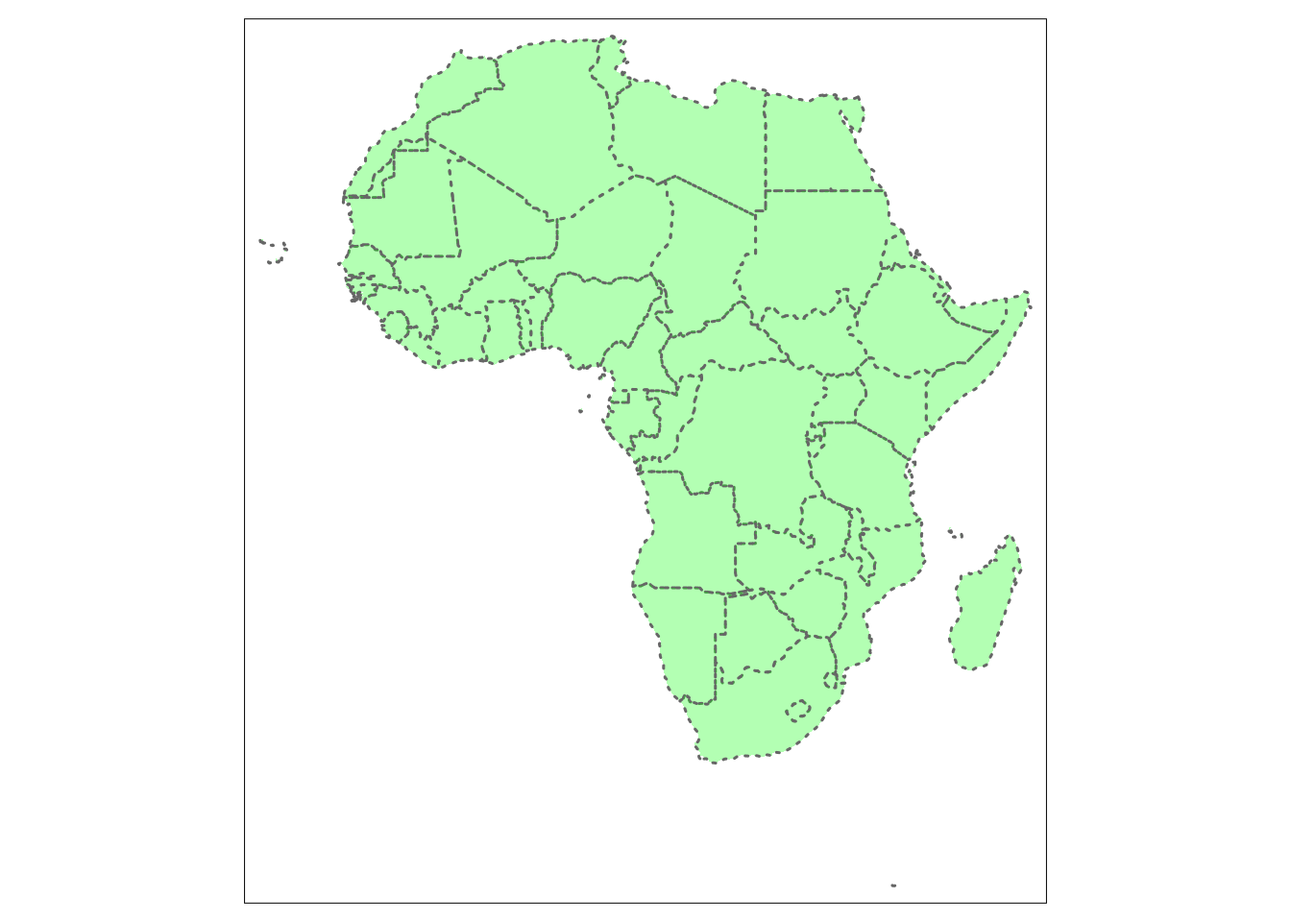
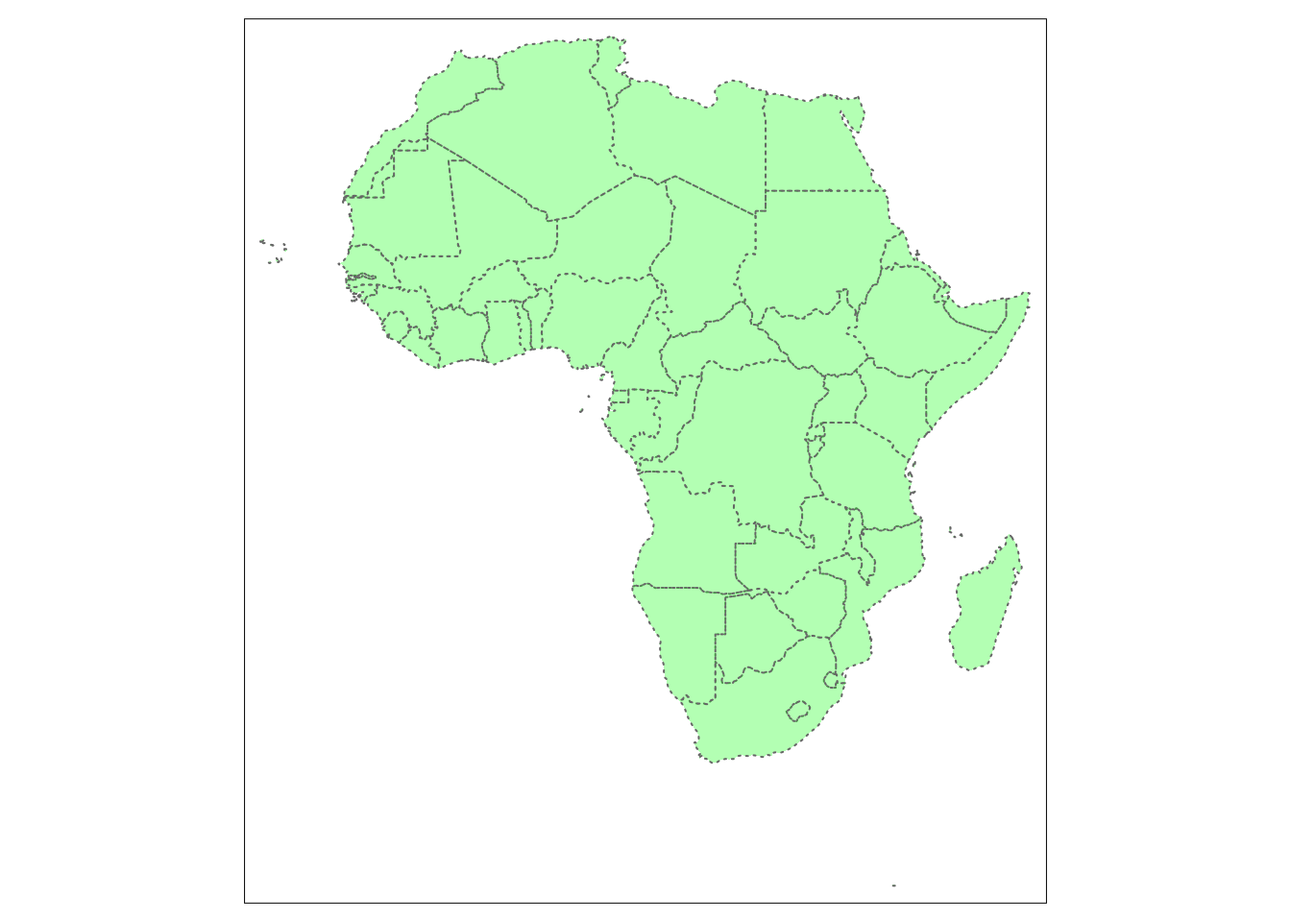
Deploy from Github Actions build 614041492 [ci skip]
Build URL: https://github.com/afrimapr/afrimapr-book/actions/runs/614041492
Commit: d62e7fd5b6ff02a408f7eb84f2863db8034fb316

diff --git a/visualising1.html b/visualising1.html
@@ -197,8 +197,8 @@ code span.wa { color: #60a0b0; font-weight: bold; font-style: italic; } /* Warni
 <li class="chapter" data-level="5.1" data-path="visualising1.html"><a href="visualising1.html#overall-goal-of-the-chapter-1"><i class="fa fa-check"></i><b>5.1</b> Overall goal of the chapter</a></li>
 <li class="chapter" data-level="5.2" data-path="visualising1.html"><a href="visualising1.html#quick-interactive-maps-with-mapview"><i class="fa fa-check"></i><b>5.2</b> Quick interactive maps with mapview</a></li>
 <li class="chapter" data-level="5.3" data-path="visualising1.html"><a href="visualising1.html#static-maps-with-tmap"><i class="fa fa-check"></i><b>5.3</b> Static maps with tmap</a><ul>
-<li class="chapter" data-level="5.3.1" data-path="visualising1.html"><a href="visualising1.html#layers-for-the-static-maps"><i class="fa fa-check"></i><b>5.3.1</b> Layers for the static maps</a></li>
-<li class="chapter" data-level="5.3.2" data-path="visualising1.html"><a href="visualising1.html#colour-pallet"><i class="fa fa-check"></i><b>5.3.2</b> Colour pallet</a></li>
+<li class="chapter" data-level="5.3.1" data-path="visualising1.html"><a href="visualising1.html#colour-pallet"><i class="fa fa-check"></i><b>5.3.1</b> Colour pallet</a></li>
+<li class="chapter" data-level="5.3.2" data-path="visualising1.html"><a href="visualising1.html#layers-for-the-static-maps"><i class="fa fa-check"></i><b>5.3.2</b> Layers for the static maps</a></li>
 </ul></li>
 <li class="chapter" data-level="5.4" data-path="visualising1.html"><a href="visualising1.html#interactive-maps-with-tmap"><i class="fa fa-check"></i><b>5.4</b> Interactive maps with tmap</a></li>
 <li class="chapter" data-level="5.5" data-path="visualising1.html"><a href="visualising1.html#further-resources-1"><i class="fa fa-check"></i><b>5.5</b> Further resources</a></li>
@@ -307,44 +307,68 @@ div.green { background-color:#e3ffd9; border-radius: 5px; padding: 20px;}
 <p>Create a dataset:</p>
 <div class="sourceCode" id="cb97"><pre class="sourceCode r"><code class="sourceCode r"><span id="cb97-1"><a href="visualising1.html#cb97-1"></a>africa &lt;-<span class="st"> </span><span class="kw">ne_countries</span>(<span class="dt">continent =</span> <span class="st">&#39;africa&#39;</span>, <span class="dt">scale =</span> <span class="st">&quot;medium&quot;</span>, <span class="dt">returnclass =</span> <span class="st">&quot;sf&quot;</span>)</span></code></pre></div>
 <p>Create an empty contour map of the continent, where <code>tm_shape()</code> function contains shape object (our spatial dataset) and <code>tm_borders()</code> defines the borders of the polygons.</p>
-<div class="sourceCode" id="cb98"><pre class="sourceCode r"><code class="sourceCode r"><span id="cb98-1"><a href="visualising1.html#cb98-1"></a><span class="kw">tm_shape</span>(africa)<span class="op">+</span></span>
-<span id="cb98-2"><a href="visualising1.html#cb98-2"></a><span class="st"> </span><span class="kw">tm_borders</span>()</span></code></pre></div>
-<p><img src="bookdown-demo_files/figure-html/unnamed-chunk-68-1.png" width="672" />
-Create an empty shape map of the continent, where <code>tm_shape()</code> function contains shape object (our spatial dataset) and <code>tm_fill()</code> defines the fill of the polygons.</p>
-<div class="sourceCode" id="cb99"><pre class="sourceCode r"><code class="sourceCode r"><span id="cb99-1"><a href="visualising1.html#cb99-1"></a><span class="kw">tm_shape</span>(africa)<span class="op">+</span></span>
-<span id="cb99-2"><a href="visualising1.html#cb99-2"></a><span class="st"> </span><span class="kw">tm_fill</span>()</span></code></pre></div>
-<p><img src="bookdown-demo_files/figure-html/unnamed-chunk-69-1.png" width="672" />
-We can also create a map with both ofthese features in one go using <code>tm_polygons()</code> function:</p>
-<div class="sourceCode" id="cb100"><pre class="sourceCode r"><code class="sourceCode r"><span id="cb100-1"><a href="visualising1.html#cb100-1"></a><span class="kw">tm_shape</span>(africa)<span class="op">+</span></span>
-<span id="cb100-2"><a href="visualising1.html#cb100-2"></a><span class="st"> </span><span class="kw">tm_polygons</span>()</span></code></pre></div>
-<p><img src="bookdown-demo_files/figure-html/unnamed-chunk-70-1.png" width="672" /></p>
-<p>We can further develop our map by adjusting different features of the map such as colour, width, types and transparency of the border lines etc. The extra parameters for changing the plot elements can be found <a href="http://publish.illinois.edu/johnrgallagher/files/2015/10/BaseGraphicsCheatsheet.pdf">here</a>.</p>
-<div class="sourceCode" id="cb101"><pre class="sourceCode r"><code class="sourceCode r"><span id="cb101-1"><a href="visualising1.html#cb101-1"></a><span class="kw">tmap_mode</span>(<span class="st">&quot;plot&quot;</span>)</span></code></pre></div>
+<div class="sourceCode" id="cb98"><pre class="sourceCode r"><code class="sourceCode r"><span id="cb98-1"><a href="visualising1.html#cb98-1"></a><span class="kw">tmap_mode</span>(<span class="st">&quot;plot&quot;</span>)</span></code></pre></div>
 <pre><code>## tmap mode set to plotting</code></pre>
+<div class="sourceCode" id="cb100"><pre class="sourceCode r"><code class="sourceCode r"><span id="cb100-1"><a href="visualising1.html#cb100-1"></a><span class="kw">tm_shape</span>(africa)<span class="op">+</span></span>
+<span id="cb100-2"><a href="visualising1.html#cb100-2"></a><span class="st"> </span><span class="kw">tm_borders</span>()</span></code></pre></div>
+<p><img src="bookdown-demo_files/figure-html/unnamed-chunk-68-1.png" width="672" /></p>
+<p>You can also create an empty shape map using <code>tm_fill()</code> which defines the fill of the polygons.</p>
+<div class="sourceCode" id="cb101"><pre class="sourceCode r"><code class="sourceCode r"><span id="cb101-1"><a href="visualising1.html#cb101-1"></a><span class="kw">tm_shape</span>(africa)<span class="op">+</span></span>
+<span id="cb101-2"><a href="visualising1.html#cb101-2"></a><span class="st"> </span><span class="kw">tm_fill</span>()</span></code></pre></div>
+<p><img src="bookdown-demo_files/figure-html/unnamed-chunk-69-1.png" width="672" /></p>
+<p>You can also create a map with both these features in one go using <code>tm_polygons()</code> function:</p>
+<div class="sourceCode" id="cb102"><pre class="sourceCode r"><code class="sourceCode r"><span id="cb102-1"><a href="visualising1.html#cb102-1"></a><span class="kw">tm_shape</span>(africa)<span class="op">+</span></span>
+<span id="cb102-2"><a href="visualising1.html#cb102-2"></a><span class="st"> </span><span class="kw">tm_polygons</span>()</span></code></pre></div>
+<p><img src="bookdown-demo_files/figure-html/unnamed-chunk-70-1.png" width="672" /></p>
+<p>We can further develop our map by adjusting different features of the map such as colour and transparency of the map, width and types of the border lines etc. The extra parameters for changing the plot elements can be found <a href="http://publish.illinois.edu/johnrgallagher/files/2015/10/BaseGraphicsCheatsheet.pdf">here</a>.</p>
 <div class="sourceCode" id="cb103"><pre class="sourceCode r"><code class="sourceCode r"><span id="cb103-1"><a href="visualising1.html#cb103-1"></a><span class="kw">tm_shape</span>(africa)<span class="op">+</span></span>
-<span id="cb103-2"><a href="visualising1.html#cb103-2"></a><span class="st"> </span><span class="kw">tm_polygons</span>(<span class="dt">col =</span> <span class="st">&quot;green&quot;</span>, <span class="dt">lwd =</span> <span class="fl">1.5</span>, <span class="dt">lty =</span> <span class="st">&quot;dotted&quot;</span>, <span class="dt">alpha =</span> <span class="fl">0.3</span>)</span></code></pre></div>
-<p><img src="bookdown-demo_files/figure-html/unnamed-chunk-71-1.png" width="672" />
-- Exercise 1: Change the settings to the map to obtain yellow, non-transparent map with solid line borders as showed below. (The solution to the exercises are provided at the end of the chapter <a href="visualising1.html#solutions_ch5">click here</a>)</p>
+<span id="cb103-2"><a href="visualising1.html#cb103-2"></a><span class="st"> </span><span class="kw">tm_polygons</span>(<span class="dt">col =</span> <span class="st">&quot;green&quot;</span>, <span class="dt">lty =</span> <span class="st">&quot;dotted&quot;</span>, <span class="dt">alpha =</span> <span class="fl">0.3</span>)</span></code></pre></div>
+<p><img src="bookdown-demo_files/figure-html/unnamed-chunk-71-1.png" width="672" /></p>
+<ul>
+<li><strong>Exercise 1</strong>: Change the settings to the map to obtain yellow, non-transparent map with solid line borders of width 3, as showed below. (The solution to the exercises are provided at the end of the chapter <a href="visualising1.html#solutions_ch5">click here</a>)</li>
+</ul>
 <p><img src="bookdown-demo_files/figure-html/unnamed-chunk-72-1.png" width="672" /></p>
-<div id="layers-for-the-static-maps" class="section level3">
-<h3><span class="header-section-number">5.3.1</span> Layers for the static maps</h3>
-<p>Fill map using data on last census data and add labels for country names</p>
+<ul>
+<li><strong>Exercise 2</strong>: create a blue map with transparency of 0.3, dotted, non-transparent, red borders, such as one below:<br />
+<img src="bookdown-demo_files/figure-html/unnamed-chunk-73-1.png" width="672" /></li>
+</ul>
+<p>As we already know a basic structure required to build a static map we can proceed to a more advanced (and useful) example where we fill the polygons using data on last census, add relevant title to the legend. In this case, we also use <code>legend.format</code>option to format the legend numbers to be treated as years.</p>
 <div class="sourceCode" id="cb104"><pre class="sourceCode r"><code class="sourceCode r"><span id="cb104-1"><a href="visualising1.html#cb104-1"></a><span class="kw">tm_shape</span>(africa)<span class="op">+</span></span>
 <span id="cb104-2"><a href="visualising1.html#cb104-2"></a><span class="st"> </span><span class="kw">tm_fill</span>(<span class="dt">col=</span><span class="st">&quot;lastcensus&quot;</span>, <span class="dt">title=</span><span class="st">&quot;Year of last census&quot;</span>, <span class="dt">legend.format =</span> <span class="kw">list</span>(<span class="dt">format=</span><span class="st">&quot;s&quot;</span>))<span class="op">+</span></span>
-<span id="cb104-3"><a href="visualising1.html#cb104-3"></a><span class="st"> </span><span class="kw">tm_borders</span>()<span class="op">+</span></span>
-<span id="cb104-4"><a href="visualising1.html#cb104-4"></a><span class="st"> </span><span class="kw">tm_text</span>(<span class="st">&quot;admin&quot;</span>, <span class="dt">size =</span> <span class="fl">0.52</span>,  <span class="dt">fontface=</span><span class="st">&quot;bold&quot;</span>, <span class="dt">auto.placement =</span> <span class="ot">TRUE</span>)</span></code></pre></div>
-<p><img src="bookdown-demo_files/figure-html/unnamed-chunk-73-1.png" width="672" /></p>
-</div>
+<span id="cb104-3"><a href="visualising1.html#cb104-3"></a><span class="st"> </span><span class="kw">tm_borders</span>()</span></code></pre></div>
+<p><img src="bookdown-demo_files/figure-html/unnamed-chunk-74-1.png" width="672" /></p>
+<p>We build on the previous map by adding labels for country names with <code>tm_text</code> function.</p>
+<div class="sourceCode" id="cb105"><pre class="sourceCode r"><code class="sourceCode r"><span id="cb105-1"><a href="visualising1.html#cb105-1"></a><span class="kw">tm_shape</span>(africa)<span class="op">+</span></span>
+<span id="cb105-2"><a href="visualising1.html#cb105-2"></a><span class="st"> </span><span class="kw">tm_fill</span>(<span class="dt">col=</span><span class="st">&quot;lastcensus&quot;</span>, <span class="dt">title=</span><span class="st">&quot;Year of last census&quot;</span>, <span class="dt">legend.format =</span> <span class="kw">list</span>(<span class="dt">format=</span><span class="st">&quot;s&quot;</span>))<span class="op">+</span></span>
+<span id="cb105-3"><a href="visualising1.html#cb105-3"></a><span class="st"> </span><span class="kw">tm_borders</span>()<span class="op">+</span></span>
+<span id="cb105-4"><a href="visualising1.html#cb105-4"></a><span class="st"> </span><span class="kw">tm_text</span>(<span class="st">&quot;admin&quot;</span>, <span class="dt">size =</span> <span class="fl">0.52</span>,  <span class="dt">fontface=</span><span class="st">&quot;bold&quot;</span>, <span class="dt">auto.placement =</span> <span class="ot">TRUE</span>)</span></code></pre></div>
+<p><img src="bookdown-demo_files/figure-html/unnamed-chunk-75-1.png" width="672" /></p>
+<p>Another useful function in <code>tmap</code> is adjusting the intervals of the legend, in case the default scale does not provide enough variety. For example, when we try to see the populations of African countries on the map using default intervals stemming from the data we see:</p>
+<div class="sourceCode" id="cb106"><pre class="sourceCode r"><code class="sourceCode r"><span id="cb106-1"><a href="visualising1.html#cb106-1"></a><span class="kw">tm_shape</span>(africa)<span class="op">+</span></span>
+<span id="cb106-2"><a href="visualising1.html#cb106-2"></a><span class="st"> </span><span class="kw">tm_fill</span>(<span class="dt">col=</span><span class="st">&quot;pop_est&quot;</span>, <span class="dt">title=</span><span class="st">&quot;Population&quot;</span>)<span class="op">+</span></span>
+<span id="cb106-3"><a href="visualising1.html#cb106-3"></a><span class="st"> </span><span class="kw">tm_borders</span>()</span></code></pre></div>
+<p><img src="bookdown-demo_files/figure-html/unnamed-chunk-76-1.png" width="672" /></p>
+<p>Instead, we might want to use <code>breaks</code> function to set them up manually to provide more differentiation. It is important to keep breaks values between minimum and maximum value in the data.</p>
+<div class="sourceCode" id="cb107"><pre class="sourceCode r"><code class="sourceCode r"><span id="cb107-1"><a href="visualising1.html#cb107-1"></a><span class="kw">tm_shape</span>(africa)<span class="op">+</span></span>
+<span id="cb107-2"><a href="visualising1.html#cb107-2"></a><span class="st"> </span><span class="kw">tm_fill</span>(<span class="dt">col=</span><span class="st">&quot;pop_est&quot;</span>, <span class="dt">title=</span><span class="st">&quot;Population&quot;</span>, <span class="dt">breaks =</span> <span class="kw">c</span>(<span class="dv">1000000</span>, <span class="dv">4000000</span>, <span class="dv">8000000</span>, <span class="dv">12000000</span>, <span class="dv">16000000</span>, <span class="dv">20000000</span>, <span class="dv">24000000</span>, <span class="dv">28000000</span>,<span class="dv">32000000</span>))<span class="op">+</span></span>
+<span id="cb107-3"><a href="visualising1.html#cb107-3"></a><span class="st"> </span><span class="kw">tm_borders</span>()</span></code></pre></div>
+<p><img src="bookdown-demo_files/figure-html/unnamed-chunk-77-1.png" width="672" />
+- <strong>Exercise 3</strong>: create a map with polygons filled with gross domestic product, black borders, legend titled <em>GDP</em> and customised breaks at 0, 20000, 30000, 40000, 50000, 100000, 200000, 300000, 500000, such as seen below.
+<img src="bookdown-demo_files/figure-html/unnamed-chunk-78-1.png" width="672" /></p>
 <div id="colour-pallet" class="section level3">
-<h3><span class="header-section-number">5.3.2</span> Colour pallet</h3>
+<h3><span class="header-section-number">5.3.1</span> Colour pallet</h3>
+</div>
+<div id="layers-for-the-static-maps" class="section level3">
+<h3><span class="header-section-number">5.3.2</span> Layers for the static maps</h3>
+<p>put two maps together</p>
 </div>
 </div>
 <div id="interactive-maps-with-tmap" class="section level2">
 <h2><span class="header-section-number">5.4</span> Interactive maps with tmap</h2>
 <p><code>tmap</code> offers versatility not only for creating static maps as we have seen above but it also allows us to make customised interactive maps conveniently by simply changing the mode of operation from static <em>plot</em> to dynamic <em>view</em> using <code>tmap_mode()</code></p>
-<div class="sourceCode" id="cb105"><pre class="sourceCode r"><code class="sourceCode r"><span id="cb105-1"><a href="visualising1.html#cb105-1"></a><span class="co"># tmap_mode(&quot;view&quot;) #switches to interactive mode</span></span>
-<span id="cb105-2"><a href="visualising1.html#cb105-2"></a><span class="co"># tm_shape(africa)+  #creates a map from previous chapter in an interactive mode</span></span>
-<span id="cb105-3"><a href="visualising1.html#cb105-3"></a><span class="co">#   tm_borders()</span></span></code></pre></div>
+<div class="sourceCode" id="cb108"><pre class="sourceCode r"><code class="sourceCode r"><span id="cb108-1"><a href="visualising1.html#cb108-1"></a><span class="co"># tmap_mode(&quot;view&quot;) #switches to interactive mode</span></span>
+<span id="cb108-2"><a href="visualising1.html#cb108-2"></a><span class="co"># tm_shape(africa)+  #creates a map from previous chapter in an interactive mode</span></span>
+<span id="cb108-3"><a href="visualising1.html#cb108-3"></a><span class="co">#   tm_borders()</span></span></code></pre></div>
 </div>
 <div id="further-resources-1" class="section level2">
 <h2><span class="header-section-number">5.5</span> Further resources</h2>
@@ -354,8 +378,20 @@ We can also create a map with both ofthese features in one go using <code>tm_pol
 <ul>
 <li>Exercise 1</li>
 </ul>
-<div class="sourceCode" id="cb106"><pre class="sourceCode r"><code class="sourceCode r"><span id="cb106-1"><a href="visualising1.html#cb106-1"></a><span class="kw">tm_shape</span>(africa)<span class="op">+</span></span>
-<span id="cb106-2"><a href="visualising1.html#cb106-2"></a><span class="st"> </span><span class="kw">tm_polygons</span>(<span class="dt">col =</span> <span class="st">&quot;yellow&quot;</span>, <span class="dt">lwd =</span> <span class="fl">1.5</span>, <span class="dt">lty =</span> <span class="st">&quot;solid&quot;</span>, <span class="dt">alpha =</span> <span class="dv">1</span>)</span></code></pre></div>
+<div class="sourceCode" id="cb109"><pre class="sourceCode r"><code class="sourceCode r"><span id="cb109-1"><a href="visualising1.html#cb109-1"></a><span class="kw">tm_shape</span>(africa)<span class="op">+</span></span>
+<span id="cb109-2"><a href="visualising1.html#cb109-2"></a><span class="st"> </span><span class="kw">tm_polygons</span>(<span class="dt">col =</span> <span class="st">&quot;yellow&quot;</span>, <span class="dt">lwd =</span> <span class="dv">3</span>, <span class="dt">lty =</span> <span class="st">&quot;solid&quot;</span>, <span class="dt">alpha =</span> <span class="dv">1</span>)</span></code></pre></div>
+<ul>
+<li>Exercise 2</li>
+</ul>
+<div class="sourceCode" id="cb110"><pre class="sourceCode r"><code class="sourceCode r"><span id="cb110-1"><a href="visualising1.html#cb110-1"></a><span class="kw">tm_shape</span>(africa)<span class="op">+</span></span>
+<span id="cb110-2"><a href="visualising1.html#cb110-2"></a><span class="st"> </span><span class="kw">tm_fill</span>(<span class="dt">col=</span><span class="st">&quot;blue&quot;</span>,<span class="dt">alpha =</span> <span class="fl">0.3</span>)<span class="op">+</span></span>
+<span id="cb110-3"><a href="visualising1.html#cb110-3"></a><span class="st"> </span><span class="kw">tm_borders</span>(<span class="dt">col =</span> <span class="st">&quot;red&quot;</span>, <span class="dt">lty =</span> <span class="st">&quot;dotted&quot;</span>, <span class="dt">alpha =</span> <span class="dv">1</span>)</span></code></pre></div>
+<ul>
+<li>Exercise 3</li>
+</ul>
+<div class="sourceCode" id="cb111"><pre class="sourceCode r"><code class="sourceCode r"><span id="cb111-1"><a href="visualising1.html#cb111-1"></a><span class="kw">tm_shape</span>(africa)<span class="op">+</span></span>
+<span id="cb111-2"><a href="visualising1.html#cb111-2"></a><span class="st"> </span><span class="kw">tm_fill</span>(<span class="dt">col=</span><span class="st">&quot;gdp_md_est&quot;</span>, <span class="dt">title=</span><span class="st">&quot;GDP&quot;</span>,  <span class="dt">breaks =</span> <span class="kw">c</span>(<span class="dv">0</span>, <span class="dv">20000</span>, <span class="dv">30000</span>, <span class="dv">40000</span>, <span class="dv">50000</span>, <span class="dv">100000</span>,<span class="dv">200000</span>, <span class="dv">300000</span>, <span class="dv">500000</span>))<span class="op">+</span></span>
+<span id="cb111-3"><a href="visualising1.html#cb111-3"></a><span class="st"> </span><span class="kw">tm_borders</span>()</span></code></pre></div>
 
 </div>
 </div>

diff --git a/template.html b/template.html
@@ -197,8 +197,8 @@ code span.wa { color: #60a0b0; font-weight: bold; font-style: italic; } /* Warni
 <li class="chapter" data-level="5.1" data-path="visualising1.html"><a href="visualising1.html#overall-goal-of-the-chapter-1"><i class="fa fa-check"></i><b>5.1</b> Overall goal of the chapter</a></li>
 <li class="chapter" data-level="5.2" data-path="visualising1.html"><a href="visualising1.html#quick-interactive-maps-with-mapview"><i class="fa fa-check"></i><b>5.2</b> Quick interactive maps with mapview</a></li>
 <li class="chapter" data-level="5.3" data-path="visualising1.html"><a href="visualising1.html#static-maps-with-tmap"><i class="fa fa-check"></i><b>5.3</b> Static maps with tmap</a><ul>
-<li class="chapter" data-level="5.3.1" data-path="visualising1.html"><a href="visualising1.html#layers-for-the-static-maps"><i class="fa fa-check"></i><b>5.3.1</b> Layers for the static maps</a></li>
-<li class="chapter" data-level="5.3.2" data-path="visualising1.html"><a href="visualising1.html#colour-pallet"><i class="fa fa-check"></i><b>5.3.2</b> Colour pallet</a></li>
+<li class="chapter" data-level="5.3.1" data-path="visualising1.html"><a href="visualising1.html#colour-pallet"><i class="fa fa-check"></i><b>5.3.1</b> Colour pallet</a></li>
+<li class="chapter" data-level="5.3.2" data-path="visualising1.html"><a href="visualising1.html#layers-for-the-static-maps"><i class="fa fa-check"></i><b>5.3.2</b> Layers for the static maps</a></li>
 </ul></li>
 <li class="chapter" data-level="5.4" data-path="visualising1.html"><a href="visualising1.html#interactive-maps-with-tmap"><i class="fa fa-check"></i><b>5.4</b> Interactive maps with tmap</a></li>
 <li class="chapter" data-level="5.5" data-path="visualising1.html"><a href="visualising1.html#further-resources-1"><i class="fa fa-check"></i><b>5.5</b> Further resources</a></li>
@@ -327,11 +327,11 @@ div.blue { background-color:#e6f0ff; border-radius: 5px; padding: 20px;}
 <ul>
 <li>Exercise 1</li>
 </ul>
-<div class="sourceCode" id="cb107"><pre class="sourceCode r"><code class="sourceCode r"><span id="cb107-1"><a href="template.html#cb107-1"></a><span class="co">#code to exercise 1 only, results hidden </span></span></code></pre></div>
+<div class="sourceCode" id="cb112"><pre class="sourceCode r"><code class="sourceCode r"><span id="cb112-1"><a href="template.html#cb112-1"></a><span class="co">#code to exercise 1 only, results hidden </span></span></code></pre></div>
 <ul>
 <li>Exercise 2</li>
 </ul>
-<div class="sourceCode" id="cb108"><pre class="sourceCode r"><code class="sourceCode r"><span id="cb108-1"><a href="template.html#cb108-1"></a><span class="co">#code to exercise 2 only, results hidden</span></span></code></pre></div>
+<div class="sourceCode" id="cb113"><pre class="sourceCode r"><code class="sourceCode r"><span id="cb113-1"><a href="template.html#cb113-1"></a><span class="co">#code to exercise 2 only, results hidden</span></span></code></pre></div>
 </div>
 <div id="feedback-2" class="section level2">
 <h2><span class="header-section-number">15.9</span> Feedback</h2>

diff --git a/preface.html b/preface.html
@@ -197,8 +197,8 @@ code span.wa { color: #60a0b0; font-weight: bold; font-style: italic; } /* Warni
 <li class="chapter" data-level="5.1" data-path="visualising1.html"><a href="visualising1.html#overall-goal-of-the-chapter-1"><i class="fa fa-check"></i><b>5.1</b> Overall goal of the chapter</a></li>
 <li class="chapter" data-level="5.2" data-path="visualising1.html"><a href="visualising1.html#quick-interactive-maps-with-mapview"><i class="fa fa-check"></i><b>5.2</b> Quick interactive maps with mapview</a></li>
 <li class="chapter" data-level="5.3" data-path="visualising1.html"><a href="visualising1.html#static-maps-with-tmap"><i class="fa fa-check"></i><b>5.3</b> Static maps with tmap</a><ul>
-<li class="chapter" data-level="5.3.1" data-path="visualising1.html"><a href="visualising1.html#layers-for-the-static-maps"><i class="fa fa-check"></i><b>5.3.1</b> Layers for the static maps</a></li>
-<li class="chapter" data-level="5.3.2" data-path="visualising1.html"><a href="visualising1.html#colour-pallet"><i class="fa fa-check"></i><b>5.3.2</b> Colour pallet</a></li>
+<li class="chapter" data-level="5.3.1" data-path="visualising1.html"><a href="visualising1.html#colour-pallet"><i class="fa fa-check"></i><b>5.3.1</b> Colour pallet</a></li>
+<li class="chapter" data-level="5.3.2" data-path="visualising1.html"><a href="visualising1.html#layers-for-the-static-maps"><i class="fa fa-check"></i><b>5.3.2</b> Layers for the static maps</a></li>
 </ul></li>
 <li class="chapter" data-level="5.4" data-path="visualising1.html"><a href="visualising1.html#interactive-maps-with-tmap"><i class="fa fa-check"></i><b>5.4</b> Interactive maps with tmap</a></li>
 <li class="chapter" data-level="5.5" data-path="visualising1.html"><a href="visualising1.html#further-resources-1"><i class="fa fa-check"></i><b>5.5</b> Further resources</a></li>
@@ -277,7 +277,7 @@ code span.wa { color: #60a0b0; font-weight: bold; font-style: italic; } /* Warni
 </ol>
 <p>The version of the book you are currently reading was last updated at:</p>
 <div class="sourceCode" id="cb1"><pre class="sourceCode r"><code class="sourceCode r"><span id="cb1-1"><a href="preface.html#cb1-1"></a><span class="kw">Sys.time</span>()</span></code></pre></div>
-<pre><code>## [1] &quot;2021-03-02 11:21:54 UTC&quot;</code></pre>
+<pre><code>## [1] &quot;2021-03-02 12:42:10 UTC&quot;</code></pre>
 <div class="figure">
 <img src="https://github.com/afrimapr/book/workflows/tic/badge.svg" alt="" />
 <p class="caption">Continuous integration (built on GitHub)</p>

diff --git a/case-study1.html b/case-study1.html
@@ -197,8 +197,8 @@ code span.wa { color: #60a0b0; font-weight: bold; font-style: italic; } /* Warni
 <li class="chapter" data-level="5.1" data-path="visualising1.html"><a href="visualising1.html#overall-goal-of-the-chapter-1"><i class="fa fa-check"></i><b>5.1</b> Overall goal of the chapter</a></li>
 <li class="chapter" data-level="5.2" data-path="visualising1.html"><a href="visualising1.html#quick-interactive-maps-with-mapview"><i class="fa fa-check"></i><b>5.2</b> Quick interactive maps with mapview</a></li>
 <li class="chapter" data-level="5.3" data-path="visualising1.html"><a href="visualising1.html#static-maps-with-tmap"><i class="fa fa-check"></i><b>5.3</b> Static maps with tmap</a><ul>
-<li class="chapter" data-level="5.3.1" data-path="visualising1.html"><a href="visualising1.html#layers-for-the-static-maps"><i class="fa fa-check"></i><b>5.3.1</b> Layers for the static maps</a></li>
-<li class="chapter" data-level="5.3.2" data-path="visualising1.html"><a href="visualising1.html#colour-pallet"><i class="fa fa-check"></i><b>5.3.2</b> Colour pallet</a></li>
+<li class="chapter" data-level="5.3.1" data-path="visualising1.html"><a href="visualising1.html#colour-pallet"><i class="fa fa-check"></i><b>5.3.1</b> Colour pallet</a></li>
+<li class="chapter" data-level="5.3.2" data-path="visualising1.html"><a href="visualising1.html#layers-for-the-static-maps"><i class="fa fa-check"></i><b>5.3.2</b> Layers for the static maps</a></li>
 </ul></li>
 <li class="chapter" data-level="5.4" data-path="visualising1.html"><a href="visualising1.html#interactive-maps-with-tmap"><i class="fa fa-check"></i><b>5.4</b> Interactive maps with tmap</a></li>
 <li class="chapter" data-level="5.5" data-path="visualising1.html"><a href="visualising1.html#further-resources-1"><i class="fa fa-check"></i><b>5.5</b> Further resources</a></li>

diff --git a/case-study2.html b/case-study2.html
@@ -197,8 +197,8 @@ code span.wa { color: #60a0b0; font-weight: bold; font-style: italic; } /* Warni
 <li class="chapter" data-level="5.1" data-path="visualising1.html"><a href="visualising1.html#overall-goal-of-the-chapter-1"><i class="fa fa-check"></i><b>5.1</b> Overall goal of the chapter</a></li>
 <li class="chapter" data-level="5.2" data-path="visualising1.html"><a href="visualising1.html#quick-interactive-maps-with-mapview"><i class="fa fa-check"></i><b>5.2</b> Quick interactive maps with mapview</a></li>
 <li class="chapter" data-level="5.3" data-path="visualising1.html"><a href="visualising1.html#static-maps-with-tmap"><i class="fa fa-check"></i><b>5.3</b> Static maps with tmap</a><ul>
-<li class="chapter" data-level="5.3.1" data-path="visualising1.html"><a href="visualising1.html#layers-for-the-static-maps"><i class="fa fa-check"></i><b>5.3.1</b> Layers for the static maps</a></li>
-<li class="chapter" data-level="5.3.2" data-path="visualising1.html"><a href="visualising1.html#colour-pallet"><i class="fa fa-check"></i><b>5.3.2</b> Colour pallet</a></li>
+<li class="chapter" data-level="5.3.1" data-path="visualising1.html"><a href="visualising1.html#colour-pallet"><i class="fa fa-check"></i><b>5.3.1</b> Colour pallet</a></li>
+<li class="chapter" data-level="5.3.2" data-path="visualising1.html"><a href="visualising1.html#layers-for-the-static-maps"><i class="fa fa-check"></i><b>5.3.2</b> Layers for the static maps</a></li>
 </ul></li>
 <li class="chapter" data-level="5.4" data-path="visualising1.html"><a href="visualising1.html#interactive-maps-with-tmap"><i class="fa fa-check"></i><b>5.4</b> Interactive maps with tmap</a></li>
 <li class="chapter" data-level="5.5" data-path="visualising1.html"><a href="visualising1.html#further-resources-1"><i class="fa fa-check"></i><b>5.5</b> Further resources</a></li>

diff --git a/data-editing.html b/data-editing.html
@@ -197,8 +197,8 @@ code span.wa { color: #60a0b0; font-weight: bold; font-style: italic; } /* Warni
 <li class="chapter" data-level="5.1" data-path="visualising1.html"><a href="visualising1.html#overall-goal-of-the-chapter-1"><i class="fa fa-check"></i><b>5.1</b> Overall goal of the chapter</a></li>
 <li class="chapter" data-level="5.2" data-path="visualising1.html"><a href="visualising1.html#quick-interactive-maps-with-mapview"><i class="fa fa-check"></i><b>5.2</b> Quick interactive maps with mapview</a></li>
 <li class="chapter" data-level="5.3" data-path="visualising1.html"><a href="visualising1.html#static-maps-with-tmap"><i class="fa fa-check"></i><b>5.3</b> Static maps with tmap</a><ul>
-<li class="chapter" data-level="5.3.1" data-path="visualising1.html"><a href="visualising1.html#layers-for-the-static-maps"><i class="fa fa-check"></i><b>5.3.1</b> Layers for the static maps</a></li>
-<li class="chapter" data-level="5.3.2" data-path="visualising1.html"><a href="visualising1.html#colour-pallet"><i class="fa fa-check"></i><b>5.3.2</b> Colour pallet</a></li>
+<li class="chapter" data-level="5.3.1" data-path="visualising1.html"><a href="visualising1.html#colour-pallet"><i class="fa fa-check"></i><b>5.3.1</b> Colour pallet</a></li>
+<li class="chapter" data-level="5.3.2" data-path="visualising1.html"><a href="visualising1.html#layers-for-the-static-maps"><i class="fa fa-check"></i><b>5.3.2</b> Layers for the static maps</a></li>
 </ul></li>
 <li class="chapter" data-level="5.4" data-path="visualising1.html"><a href="visualising1.html#interactive-maps-with-tmap"><i class="fa fa-check"></i><b>5.4</b> Interactive maps with tmap</a></li>
 <li class="chapter" data-level="5.5" data-path="visualising1.html"><a href="visualising1.html#further-resources-1"><i class="fa fa-check"></i><b>5.5</b> Further resources</a></li>

diff --git a/data-sources.html b/data-sources.html
@@ -197,8 +197,8 @@ code span.wa { color: #60a0b0; font-weight: bold; font-style: italic; } /* Warni
 <li class="chapter" data-level="5.1" data-path="visualising1.html"><a href="visualising1.html#overall-goal-of-the-chapter-1"><i class="fa fa-check"></i><b>5.1</b> Overall goal of the chapter</a></li>
 <li class="chapter" data-level="5.2" data-path="visualising1.html"><a href="visualising1.html#quick-interactive-maps-with-mapview"><i class="fa fa-check"></i><b>5.2</b> Quick interactive maps with mapview</a></li>
 <li class="chapter" data-level="5.3" data-path="visualising1.html"><a href="visualising1.html#static-maps-with-tmap"><i class="fa fa-check"></i><b>5.3</b> Static maps with tmap</a><ul>
-<li class="chapter" data-level="5.3.1" data-path="visualising1.html"><a href="visualising1.html#layers-for-the-static-maps"><i class="fa fa-check"></i><b>5.3.1</b> Layers for the static maps</a></li>
-<li class="chapter" data-level="5.3.2" data-path="visualising1.html"><a href="visualising1.html#colour-pallet"><i class="fa fa-check"></i><b>5.3.2</b> Colour pallet</a></li>
+<li class="chapter" data-level="5.3.1" data-path="visualising1.html"><a href="visualising1.html#colour-pallet"><i class="fa fa-check"></i><b>5.3.1</b> Colour pallet</a></li>
+<li class="chapter" data-level="5.3.2" data-path="visualising1.html"><a href="visualising1.html#layers-for-the-static-maps"><i class="fa fa-check"></i><b>5.3.2</b> Layers for the static maps</a></li>
 </ul></li>
 <li class="chapter" data-level="5.4" data-path="visualising1.html"><a href="visualising1.html#interactive-maps-with-tmap"><i class="fa fa-check"></i><b>5.4</b> Interactive maps with tmap</a></li>
 <li class="chapter" data-level="5.5" data-path="visualising1.html"><a href="visualising1.html#further-resources-1"><i class="fa fa-check"></i><b>5.5</b> Further resources</a></li>

diff --git a/data-types.html b/data-types.html
@@ -197,8 +197,8 @@ code span.wa { color: #60a0b0; font-weight: bold; font-style: italic; } /* Warni
 <li class="chapter" data-level="5.1" data-path="visualising1.html"><a href="visualising1.html#overall-goal-of-the-chapter-1"><i class="fa fa-check"></i><b>5.1</b> Overall goal of the chapter</a></li>
 <li class="chapter" data-level="5.2" data-path="visualising1.html"><a href="visualising1.html#quick-interactive-maps-with-mapview"><i class="fa fa-check"></i><b>5.2</b> Quick interactive maps with mapview</a></li>
 <li class="chapter" data-level="5.3" data-path="visualising1.html"><a href="visualising1.html#static-maps-with-tmap"><i class="fa fa-check"></i><b>5.3</b> Static maps with tmap</a><ul>
-<li class="chapter" data-level="5.3.1" data-path="visualising1.html"><a href="visualising1.html#layers-for-the-static-maps"><i class="fa fa-check"></i><b>5.3.1</b> Layers for the static maps</a></li>
-<li class="chapter" data-level="5.3.2" data-path="visualising1.html"><a href="visualising1.html#colour-pallet"><i class="fa fa-check"></i><b>5.3.2</b> Colour pallet</a></li>
+<li class="chapter" data-level="5.3.1" data-path="visualising1.html"><a href="visualising1.html#colour-pallet"><i class="fa fa-check"></i><b>5.3.1</b> Colour pallet</a></li>
+<li class="chapter" data-level="5.3.2" data-path="visualising1.html"><a href="visualising1.html#layers-for-the-static-maps"><i class="fa fa-check"></i><b>5.3.2</b> Layers for the static maps</a></li>
 </ul></li>
 <li class="chapter" data-level="5.4" data-path="visualising1.html"><a href="visualising1.html#interactive-maps-with-tmap"><i class="fa fa-check"></i><b>5.4</b> Interactive maps with tmap</a></li>
 <li class="chapter" data-level="5.5" data-path="visualising1.html"><a href="visualising1.html#further-resources-1"><i class="fa fa-check"></i><b>5.5</b> Further resources</a></li>

diff --git a/index.html b/index.html
@@ -197,8 +197,8 @@ code span.wa { color: #60a0b0; font-weight: bold; font-style: italic; } /* Warni
 <li class="chapter" data-level="5.1" data-path="visualising1.html"><a href="visualising1.html#overall-goal-of-the-chapter-1"><i class="fa fa-check"></i><b>5.1</b> Overall goal of the chapter</a></li>
 <li class="chapter" data-level="5.2" data-path="visualising1.html"><a href="visualising1.html#quick-interactive-maps-with-mapview"><i class="fa fa-check"></i><b>5.2</b> Quick interactive maps with mapview</a></li>
 <li class="chapter" data-level="5.3" data-path="visualising1.html"><a href="visualising1.html#static-maps-with-tmap"><i class="fa fa-check"></i><b>5.3</b> Static maps with tmap</a><ul>
-<li class="chapter" data-level="5.3.1" data-path="visualising1.html"><a href="visualising1.html#layers-for-the-static-maps"><i class="fa fa-check"></i><b>5.3.1</b> Layers for the static maps</a></li>
-<li class="chapter" data-level="5.3.2" data-path="visualising1.html"><a href="visualising1.html#colour-pallet"><i class="fa fa-check"></i><b>5.3.2</b> Colour pallet</a></li>
+<li class="chapter" data-level="5.3.1" data-path="visualising1.html"><a href="visualising1.html#colour-pallet"><i class="fa fa-check"></i><b>5.3.1</b> Colour pallet</a></li>
+<li class="chapter" data-level="5.3.2" data-path="visualising1.html"><a href="visualising1.html#layers-for-the-static-maps"><i class="fa fa-check"></i><b>5.3.2</b> Layers for the static maps</a></li>
 </ul></li>
 <li class="chapter" data-level="5.4" data-path="visualising1.html"><a href="visualising1.html#interactive-maps-with-tmap"><i class="fa fa-check"></i><b>5.4</b> Interactive maps with tmap</a></li>
 <li class="chapter" data-level="5.5" data-path="visualising1.html"><a href="visualising1.html#further-resources-1"><i class="fa fa-check"></i><b>5.5</b> Further resources</a></li>

diff --git a/intro.html b/intro.html
@@ -197,8 +197,8 @@ code span.wa { color: #60a0b0; font-weight: bold; font-style: italic; } /* Warni
 <li class="chapter" data-level="5.1" data-path="visualising1.html"><a href="visualising1.html#overall-goal-of-the-chapter-1"><i class="fa fa-check"></i><b>5.1</b> Overall goal of the chapter</a></li>
 <li class="chapter" data-level="5.2" data-path="visualising1.html"><a href="visualising1.html#quick-interactive-maps-with-mapview"><i class="fa fa-check"></i><b>5.2</b> Quick interactive maps with mapview</a></li>
 <li class="chapter" data-level="5.3" data-path="visualising1.html"><a href="visualising1.html#static-maps-with-tmap"><i class="fa fa-check"></i><b>5.3</b> Static maps with tmap</a><ul>
-<li class="chapter" data-level="5.3.1" data-path="visualising1.html"><a href="visualising1.html#layers-for-the-static-maps"><i class="fa fa-check"></i><b>5.3.1</b> Layers for the static maps</a></li>
-<li class="chapter" data-level="5.3.2" data-path="visualising1.html"><a href="visualising1.html#colour-pallet"><i class="fa fa-check"></i><b>5.3.2</b> Colour pallet</a></li>
+<li class="chapter" data-level="5.3.1" data-path="visualising1.html"><a href="visualising1.html#colour-pallet"><i class="fa fa-check"></i><b>5.3.1</b> Colour pallet</a></li>
+<li class="chapter" data-level="5.3.2" data-path="visualising1.html"><a href="visualising1.html#layers-for-the-static-maps"><i class="fa fa-check"></i><b>5.3.2</b> Layers for the static maps</a></li>
 </ul></li>
 <li class="chapter" data-level="5.4" data-path="visualising1.html"><a href="visualising1.html#interactive-maps-with-tmap"><i class="fa fa-check"></i><b>5.4</b> Interactive maps with tmap</a></li>
 <li class="chapter" data-level="5.5" data-path="visualising1.html"><a href="visualising1.html#further-resources-1"><i class="fa fa-check"></i><b>5.5</b> Further resources</a></li>

diff --git a/joining.html b/joining.html
@@ -197,8 +197,8 @@ code span.wa { color: #60a0b0; font-weight: bold; font-style: italic; } /* Warni
 <li class="chapter" data-level="5.1" data-path="visualising1.html"><a href="visualising1.html#overall-goal-of-the-chapter-1"><i class="fa fa-check"></i><b>5.1</b> Overall goal of the chapter</a></li>
 <li class="chapter" data-level="5.2" data-path="visualising1.html"><a href="visualising1.html#quick-interactive-maps-with-mapview"><i class="fa fa-check"></i><b>5.2</b> Quick interactive maps with mapview</a></li>
 <li class="chapter" data-level="5.3" data-path="visualising1.html"><a href="visualising1.html#static-maps-with-tmap"><i class="fa fa-check"></i><b>5.3</b> Static maps with tmap</a><ul>
-<li class="chapter" data-level="5.3.1" data-path="visualising1.html"><a href="visualising1.html#layers-for-the-static-maps"><i class="fa fa-check"></i><b>5.3.1</b> Layers for the static maps</a></li>
-<li class="chapter" data-level="5.3.2" data-path="visualising1.html"><a href="visualising1.html#colour-pallet"><i class="fa fa-check"></i><b>5.3.2</b> Colour pallet</a></li>
+<li class="chapter" data-level="5.3.1" data-path="visualising1.html"><a href="visualising1.html#colour-pallet"><i class="fa fa-check"></i><b>5.3.1</b> Colour pallet</a></li>
+<li class="chapter" data-level="5.3.2" data-path="visualising1.html"><a href="visualising1.html#layers-for-the-static-maps"><i class="fa fa-check"></i><b>5.3.2</b> Layers for the static maps</a></li>
 </ul></li>
 <li class="chapter" data-level="5.4" data-path="visualising1.html"><a href="visualising1.html#interactive-maps-with-tmap"><i class="fa fa-check"></i><b>5.4</b> Interactive maps with tmap</a></li>
 <li class="chapter" data-level="5.5" data-path="visualising1.html"><a href="visualising1.html#further-resources-1"><i class="fa fa-check"></i><b>5.5</b> Further resources</a></li>

diff --git a/openstreetmap.html b/openstreetmap.html
@@ -197,8 +197,8 @@ code span.wa { color: #60a0b0; font-weight: bold; font-style: italic; } /* Warni
 <li class="chapter" data-level="5.1" data-path="visualising1.html"><a href="visualising1.html#overall-goal-of-the-chapter-1"><i class="fa fa-check"></i><b>5.1</b> Overall goal of the chapter</a></li>
 <li class="chapter" data-level="5.2" data-path="visualising1.html"><a href="visualising1.html#quick-interactive-maps-with-mapview"><i class="fa fa-check"></i><b>5.2</b> Quick interactive maps with mapview</a></li>
 <li class="chapter" data-level="5.3" data-path="visualising1.html"><a href="visualising1.html#static-maps-with-tmap"><i class="fa fa-check"></i><b>5.3</b> Static maps with tmap</a><ul>
-<li class="chapter" data-level="5.3.1" data-path="visualising1.html"><a href="visualising1.html#layers-for-the-static-maps"><i class="fa fa-check"></i><b>5.3.1</b> Layers for the static maps</a></li>
-<li class="chapter" data-level="5.3.2" data-path="visualising1.html"><a href="visualising1.html#colour-pallet"><i class="fa fa-check"></i><b>5.3.2</b> Colour pallet</a></li>
+<li class="chapter" data-level="5.3.1" data-path="visualising1.html"><a href="visualising1.html#colour-pallet"><i class="fa fa-check"></i><b>5.3.1</b> Colour pallet</a></li>
+<li class="chapter" data-level="5.3.2" data-path="visualising1.html"><a href="visualising1.html#layers-for-the-static-maps"><i class="fa fa-check"></i><b>5.3.2</b> Layers for the static maps</a></li>
 </ul></li>
 <li class="chapter" data-level="5.4" data-path="visualising1.html"><a href="visualising1.html#interactive-maps-with-tmap"><i class="fa fa-check"></i><b>5.4</b> Interactive maps with tmap</a></li>
 <li class="chapter" data-level="5.5" data-path="visualising1.html"><a href="visualising1.html#further-resources-1"><i class="fa fa-check"></i><b>5.5</b> Further resources</a></li>
